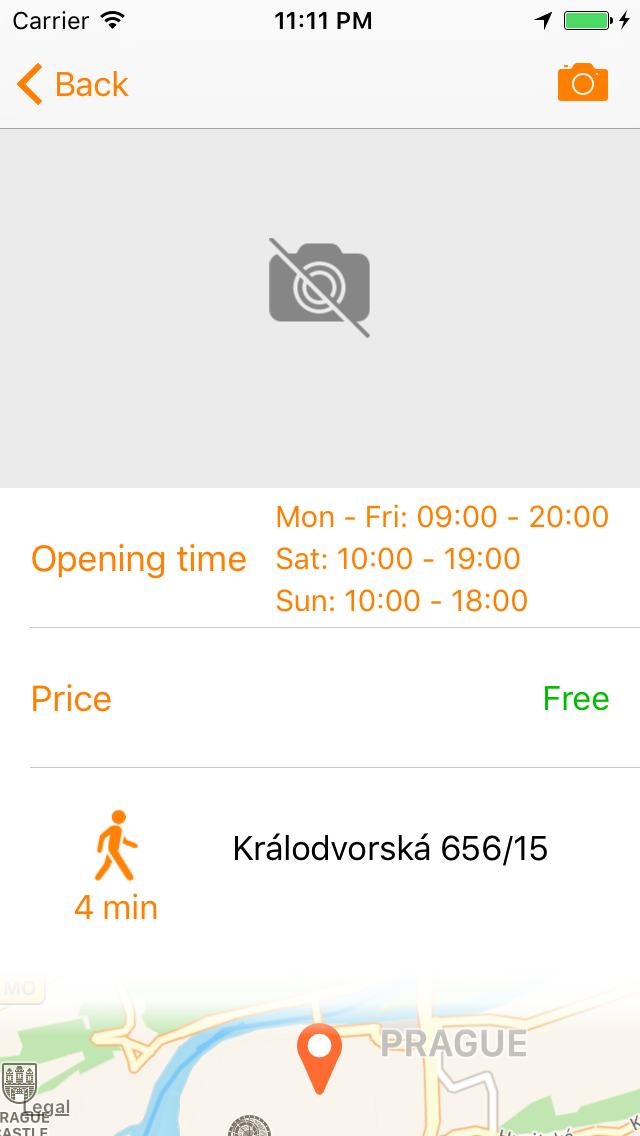
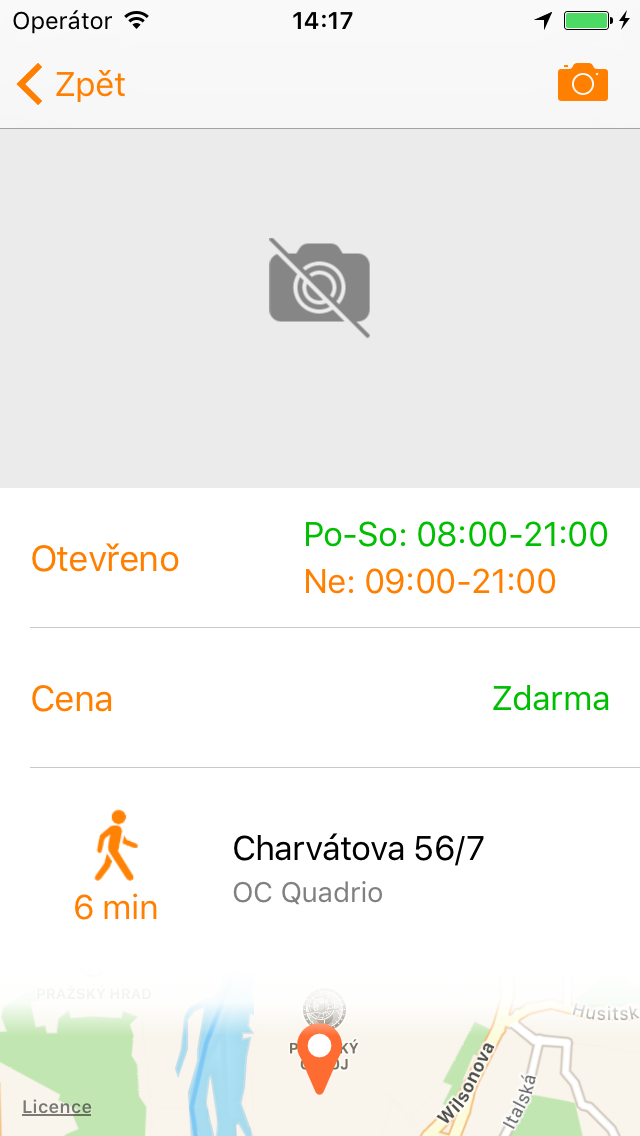
adding and framing screenshots

diff --git a/screenshots/screenshots.html b/screenshots/screenshots.html
@@ -76,7 +76,7 @@
       <table>
         
           <tr>
-            <th colspan="3">
+            <th colspan="6">
               <span class="deviceName">iPhone5 (4-Inch)</span>
             </th>
           </tr>
@@ -96,6 +96,7 @@
               </td>
             
               
+              
               <td>
                 
                 
@@ -109,6 +110,7 @@
               </td>
             
               
+              
               <td>
                 
                 
@@ -118,6 +120,264 @@
                        style="width: 100%;"
                          alt="cs-CZ iPhone5 (4-Inch)"
                 data-counter="3" />
+                </a>
+              </td>
+            
+              
+          </tr>
+        
+          <tr>
+            <th colspan="6">
+              <span class="deviceName">iPhone6 (4.7-Inch)</span>
+            </th>
+          </tr>
+          <tr>
+            
+              
+              <td>
+                
+                
+                <a href="./cs-CZ/iPhone6-detail.png" target="_blank" class="screenshotLink">
+                  <img class="screenshot"
+                         src="./cs-CZ/iPhone6-detail.png"
+                       style="width: 100%;"
+                         alt="cs-CZ iPhone6 (4.7-Inch)"
+                data-counter="4" />
+                </a>
+              </td>
+            
+              
+              
+              <td>
+                
+                
+                <a href="./cs-CZ/iPhone6-list.png" target="_blank" class="screenshotLink">
+                  <img class="screenshot"
+                         src="./cs-CZ/iPhone6-list.png"
+                       style="width: 100%;"
+                         alt="cs-CZ iPhone6 (4.7-Inch)"
+                data-counter="5" />
+                </a>
+              </td>
+            
+              
+              
+              <td>
+                
+                
+                <a href="./cs-CZ/iPhone6-main-screen.png" target="_blank" class="screenshotLink">
+                  <img class="screenshot"
+                         src="./cs-CZ/iPhone6-main-screen.png"
+                       style="width: 100%;"
+                         alt="cs-CZ iPhone6 (4.7-Inch)"
+                data-counter="6" />
+                </a>
+              </td>
+            
+              
+          </tr>
+        
+          <tr>
+            <th colspan="5">
+              <span class="deviceName">iPhone6Plus (5.5-Inch)</span>
+            </th>
+          </tr>
+          <tr>
+            
+              
+              <td>
+                
+                
+                <a href="./cs-CZ/iPhone6Plus-detail.png" target="_blank" class="screenshotLink">
+                  <img class="screenshot"
+                         src="./cs-CZ/iPhone6Plus-detail.png"
+                       style="width: 100%;"
+                         alt="cs-CZ iPhone6Plus (5.5-Inch)"
+                data-counter="7" />
+                </a>
+              </td>
+            
+              
+              
+              <td>
+                
+                
+                <a href="./cs-CZ/iPhone6Plus-list.png" target="_blank" class="screenshotLink">
+                  <img class="screenshot"
+                         src="./cs-CZ/iPhone6Plus-list.png"
+                       style="width: 100%;"
+                         alt="cs-CZ iPhone6Plus (5.5-Inch)"
+                data-counter="8" />
+                </a>
+              </td>
+            
+              
+              
+              <td>
+                
+                
+                <a href="./cs-CZ/iPhone6Plus-main-screen.png" target="_blank" class="screenshotLink">
+                  <img class="screenshot"
+                         src="./cs-CZ/iPhone6Plus-main-screen.png"
+                       style="width: 100%;"
+                         alt="cs-CZ iPhone6Plus (5.5-Inch)"
+                data-counter="9" />
+                </a>
+              </td>
+            
+          </tr>
+        
+      </table>
+    
+      <h1 class="language">en-US</h1>
+      <hr>
+      <table>
+        
+          <tr>
+            <th colspan="5">
+              <span class="deviceName">iPhone5 (4-Inch)</span>
+            </th>
+          </tr>
+          <tr>
+            
+              
+              <td>
+                
+                
+                <a href="./en-US/iPhone5-detail.png" target="_blank" class="screenshotLink">
+                  <img class="screenshot"
+                         src="./en-US/iPhone5-detail.png"
+                       style="width: 100%;"
+                         alt="en-US iPhone5 (4-Inch)"
+                data-counter="10" />
+                </a>
+              </td>
+            
+              
+              
+              <td>
+                
+                
+                <a href="./en-US/iPhone5-list.png" target="_blank" class="screenshotLink">
+                  <img class="screenshot"
+                         src="./en-US/iPhone5-list.png"
+                       style="width: 100%;"
+                         alt="en-US iPhone5 (4-Inch)"
+                data-counter="11" />
+                </a>
+              </td>
+            
+              
+              
+              <td>
+                
+                
+                <a href="./en-US/iPhone5-main-screen.png" target="_blank" class="screenshotLink">
+                  <img class="screenshot"
+                         src="./en-US/iPhone5-main-screen.png"
+                       style="width: 100%;"
+                         alt="en-US iPhone5 (4-Inch)"
+                data-counter="12" />
+                </a>
+              </td>
+            
+          </tr>
+        
+          <tr>
+            <th colspan="5">
+              <span class="deviceName">iPhone6 (4.7-Inch)</span>
+            </th>
+          </tr>
+          <tr>
+            
+              
+              <td>
+                
+                
+                <a href="./en-US/iPhone6-detail.png" target="_blank" class="screenshotLink">
+                  <img class="screenshot"
+                         src="./en-US/iPhone6-detail.png"
+                       style="width: 100%;"
+                         alt="en-US iPhone6 (4.7-Inch)"
+                data-counter="13" />
+                </a>
+              </td>
+            
+              
+              
+              <td>
+                
+                
+                <a href="./en-US/iPhone6-list.png" target="_blank" class="screenshotLink">
+                  <img class="screenshot"
+                         src="./en-US/iPhone6-list.png"
+                       style="width: 100%;"
+                         alt="en-US iPhone6 (4.7-Inch)"
+                data-counter="14" />
+                </a>
+              </td>
+            
+              
+              
+              <td>
+                
+                
+                <a href="./en-US/iPhone6-main-screen.png" target="_blank" class="screenshotLink">
+                  <img class="screenshot"
+                         src="./en-US/iPhone6-main-screen.png"
+                       style="width: 100%;"
+                         alt="en-US iPhone6 (4.7-Inch)"
+                data-counter="15" />
+                </a>
+              </td>
+            
+          </tr>
+        
+          <tr>
+            <th colspan="5">
+              <span class="deviceName">iPhone6Plus (5.5-Inch)</span>
+            </th>
+          </tr>
+          <tr>
+            
+              
+              <td>
+                
+                
+                <a href="./en-US/iPhone6Plus-detail.png" target="_blank" class="screenshotLink">
+                  <img class="screenshot"
+                         src="./en-US/iPhone6Plus-detail.png"
+                       style="width: 100%;"
+                         alt="en-US iPhone6Plus (5.5-Inch)"
+                data-counter="16" />
+                </a>
+              </td>
+            
+              
+              
+              <td>
+                
+                
+                <a href="./en-US/iPhone6Plus-list.png" target="_blank" class="screenshotLink">
+                  <img class="screenshot"
+                         src="./en-US/iPhone6Plus-list.png"
+                       style="width: 100%;"
+                         alt="en-US iPhone6Plus (5.5-Inch)"
+                data-counter="17" />
+                </a>
+              </td>
+            
+              
+              
+              <td>
+                
+                
+                <a href="./en-US/iPhone6Plus-main-screen.png" target="_blank" class="screenshotLink">
+                  <img class="screenshot"
+                         src="./en-US/iPhone6Plus-main-screen.png"
+                       style="width: 100%;"
+                         alt="en-US iPhone6Plus (5.5-Inch)"
+                data-counter="18" />
                 </a>
               </td>
             

diff --git a/KlozetUITests/KlozetUITests.swift b/KlozetUITests/KlozetUITests.swift
@@ -38,23 +38,23 @@ class KlozetUITests: XCTestCase {
         
         let app = XCUIApplication()
         
-        //let annotation = app.maps.element.otherElements["Uhelný trh 1-3, Under plaza in basement - stairs down"]
-        //annotation.tap()
-        
         
         let predicate = NSPredicate(format: "exists == 1")
-        //let query = app.maps.element.otherElements["My Location"]
-        let query = app.scrollViews.otherElements["My Location"]
+        
+        //let query = app.otherElements["My Location"]
+        let query = app.otherElements["Moje poloha"]
+        
         expectation(for: predicate, evaluatedWith: query, handler: nil)
         
         waitForExpectations(timeout: 30, handler: nil)
         
-        
-        
+        let annotation = app.otherElements["U Radnice 10/2, Restaurant Kotleta"]
+        annotation.tap()
         
         snapshot("main-screen")
         
-        XCUIApplication().navigationBars["Klozet"].buttons["List"].tap()
+        //app.navigationBars["Klozet"].buttons["List"].tap()
+        app.navigationBars["Klozet"].buttons["Seznam"].tap()
         
         snapshot("list")
         
@@ -66,6 +66,15 @@ class KlozetUITests: XCTestCase {
         
         let cells = XCUIApplication().tables.cells
         cells.element(boundBy: 4).tap()
+        
+        _ = self.expectation(
+            for: NSPredicate(format: "self.count = 1"),
+            evaluatedWith: XCUIApplication().tables,
+            handler: nil)
+        self.waitForExpectations(timeout: 5.0, handler: nil)
+        
+        let detailCells = app.tables.cells
+        detailCells.element(boundBy: 1).press(forDuration: 5)
         
         snapshot("detail")
     }

diff --git a/Klozet/OpenTimeCell.swift b/Klozet/OpenTimeCell.swift
@@ -27,7 +27,7 @@ class OpenTimeCell: UITableViewCell, DetailCell, FilterOpen {
         let cellStackView = setCellStack(view: self)
         
         
-        setLeftLabel(stackView: cellStackView, text: "Open")
+        setLeftLabel(stackView: cellStackView, text: "Open".localized)
         
         
         setOpenTimeStack(stackView: cellStackView, openTimes: openTimes)

diff --git a/Klozet/ListCell.swift b/Klozet/ListCell.swift
@@ -67,7 +67,7 @@ class ListCell: UITableViewCell, FilterOpen, DirectionsDelegate, ImageController
         
         
         //If toilet is for free => green color, otherwise set color to orange
-        if price == "Zdarma" {
+        if price == "Zdarma".localized {
             priceLabel.textColor = Colors.greenColor
         }
         else {

diff --git a/Klozet/ViewController.swift b/Klozet/ViewController.swift
@@ -76,8 +76,6 @@ class ViewController: UIViewController, UIGestureRecognizerDelegate, UserLocatio
         createButtons()
         
         addDragRecognizer()
-        
-        mapView.userLocation.accessibilityLabel = "location"
 
     }
     
